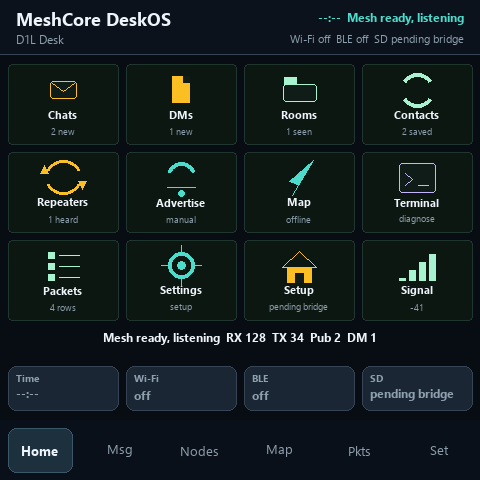
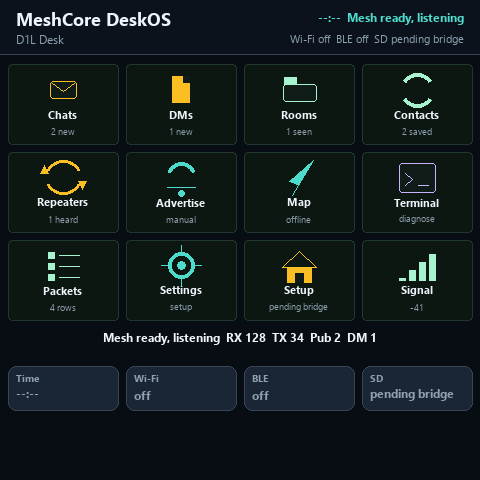
Hide dock on D1L home launcher

diff --git a/main/ui/ui_phase1.c b/main/ui/ui_phase1.c
@@ -1191,6 +1191,19 @@ static void set_dock_hidden(bool hidden)
     request_full_screen_repaint();
 }
 
+static void restore_dock_for_active_tab(void)
+{
+    set_dock_hidden(s_active_tab == D1L_UI_TAB_HOME);
+}
+
+static void layout_content_for_active_tab(void)
+{
+    if (s_content) {
+        lv_obj_set_size(s_content, 480, s_active_tab == D1L_UI_TAB_HOME ? 424 : 362);
+    }
+    restore_dock_for_active_tab();
+}
+
 static void hide_sheet(void)
 {
     if (s_sheet) {
@@ -1204,7 +1217,7 @@ static void hide_compose_sheet(void)
         lv_obj_add_flag(s_compose_sheet, LV_OBJ_FLAG_HIDDEN);
     }
     s_onboarding_probe_suppressed = false;
-    set_dock_hidden(false);
+    restore_dock_for_active_tab();
     s_compose_dm = false;
     memset(&s_compose_contact, 0, sizeof(s_compose_contact));
     request_full_screen_repaint();
@@ -1263,7 +1276,7 @@ static void hide_wifi_sheet(void)
     if (s_wifi_sheet) {
         lv_obj_add_flag(s_wifi_sheet, LV_OBJ_FLAG_HIDDEN);
     }
-    set_dock_hidden(false);
+    restore_dock_for_active_tab();
 }
 
 static void hide_ble_sheet(void)
@@ -1292,7 +1305,7 @@ static void hide_map_location_sheet(void)
     if (s_map_location_sheet) {
         lv_obj_add_flag(s_map_location_sheet, LV_OBJ_FLAG_HIDDEN);
     }
-    set_dock_hidden(false);
+    restore_dock_for_active_tab();
 }
 
 static void hide_map_tiles_sheet(void)
@@ -1300,7 +1313,7 @@ static void hide_map_tiles_sheet(void)
     if (s_map_tiles_sheet) {
         lv_obj_add_flag(s_map_tiles_sheet, LV_OBJ_FLAG_HIDDEN);
     }
-    set_dock_hidden(false);
+    restore_dock_for_active_tab();
 }
 
 static void hide_contact_edit_sheet(void)
@@ -6165,6 +6178,7 @@ static void render_active_tab(void)
     }
     d1l_app_model_snapshot(&s_snapshot);
     update_chrome(&s_snapshot);
+    layout_content_for_active_tab();
     lv_obj_clean(s_content);
     configure_content_scroll_root(s_content);
     lv_obj_scroll_to_y(s_content, 0, LV_ANIM_OFF);

diff --git a/tools/ui_simulator.py b/tools/ui_simulator.py
@@ -487,7 +487,11 @@ class Surface:
         height = y1 - y0
         offscreen = x0 < 0 or y0 < 0 or x1 > WIDTH or y1 > HEIGHT
         top_bar_overlap = kind not in ("screen", "top_bar") and self.view != "lock_overlay" and y0 < TOP_BAR_H
-        dock_overlap = kind != "dock_tab" and self.view not in ("lock_overlay", "onboarding_sheet") and y1 > DOCK_Y
+        dock_overlap = (
+            kind != "dock_tab"
+            and self.view not in ("home", "lock_overlay", "onboarding_sheet")
+            and y1 > DOCK_Y
+        )
         self.touch_targets.append(
             {
                 "label": label,
@@ -925,7 +929,6 @@ def draw_home_body(s: Surface, snap: Snapshot):
 def render_home(s: Surface, snap: Snapshot):
     draw_top_bar(s, snap)
     draw_home_body(s, snap)
-    draw_dock(s, "Home")
 
 
 def render_messages_mode(s: Surface, snap: Snapshot, *, show_dms: bool = False):
@@ -1852,7 +1855,6 @@ RENDERERS: dict[str, Callable[[Surface, Snapshot], None]] = {
 REQUIRED_LABELS: dict[str, tuple[str, ...]] = {
     "home": (
         "MeshCore DeskOS",
-        "Home",
         "Chats",
         "DMs",
         "Rooms",

diff --git a/tests/test_ui_shell_contract.py b/tests/test_ui_shell_contract.py
@@ -223,7 +223,7 @@ def test_p0_message_layouts_keep_text_out_of_headers_and_dock():
     )[0]
     assert "static lv_obj_t *s_dock" in source
     assert "set_dock_hidden(true)" in source
-    assert "set_dock_hidden(false)" in source
+    assert "restore_dock_for_active_tab()" in source
     layout = source.split("static void layout_compose_sheet_controls", 1)[1].split(
         "static void show_public_compose_sheet", 1
     )[0]
@@ -254,6 +254,9 @@ def test_main_content_root_is_scrollable_and_serial_tab_switchable():
     assert "lv_obj_set_scroll_dir(root, LV_DIR_VER)" in source
     assert "lv_obj_set_scrollbar_mode(root, LV_SCROLLBAR_MODE_AUTO)" in source
     assert "configure_content_scroll_root(s_content)" in source
+    assert "layout_content_for_active_tab()" in source
+    assert "lv_obj_set_size(s_content, 480, s_active_tab == D1L_UI_TAB_HOME ? 424 : 362)" in source
+    assert "set_dock_hidden(s_active_tab == D1L_UI_TAB_HOME)" in source
     assert "lv_obj_scroll_to_y(s_content, 0, LV_ANIM_OFF)" in source
     assert "lv_obj_clear_flag(s_content, LV_OBJ_FLAG_SCROLLABLE)" not in source
     assert "d1l_ui_phase1_request_tab" in header

diff --git a/tests/test_ui_simulator.py b/tests/test_ui_simulator.py
@@ -102,6 +102,7 @@ def test_ui_simulator_large_mesh_stress_is_bounded(tmp_path):
 
 def test_ui_simulator_covers_current_touch_surfaces(tmp_path):
     report = ui_simulator.generate(tmp_path)
+    views_by_name = {view["name"]: view for view in report["views"]}
     labels_by_view = {view["name"]: set(view["labels"]) for view in report["views"]}
 
     assert {
@@ -122,6 +123,9 @@ def test_ui_simulator_covers_current_touch_surfaces(tmp_path):
         "BLE",
         "SD",
     } <= labels_by_view["home"]
+    assert not any(target["kind"] == "dock_tab" for target in views_by_name["home"]["touch_targets"])
+    for view_name in ("messages", "messages_dm", "nodes", "map", "packets", "settings"):
+        assert any(target["kind"] == "dock_tab" for target in views_by_name[view_name]["touch_targets"])
     assert {"Messages", "Read", "Compose", "History", "Test", "Public", "DMs", "Public Channel"} <= labels_by_view["messages"]
     assert {"Messages", "Public", "DMs", "DM Conversations"} <= labels_by_view["messages_dm"]
     assert {"Nodes", "Contacts", "Heard Nodes", "All Heard", "DM", "CMP", "ROOM", "RPT"} <= labels_by_view["nodes"]